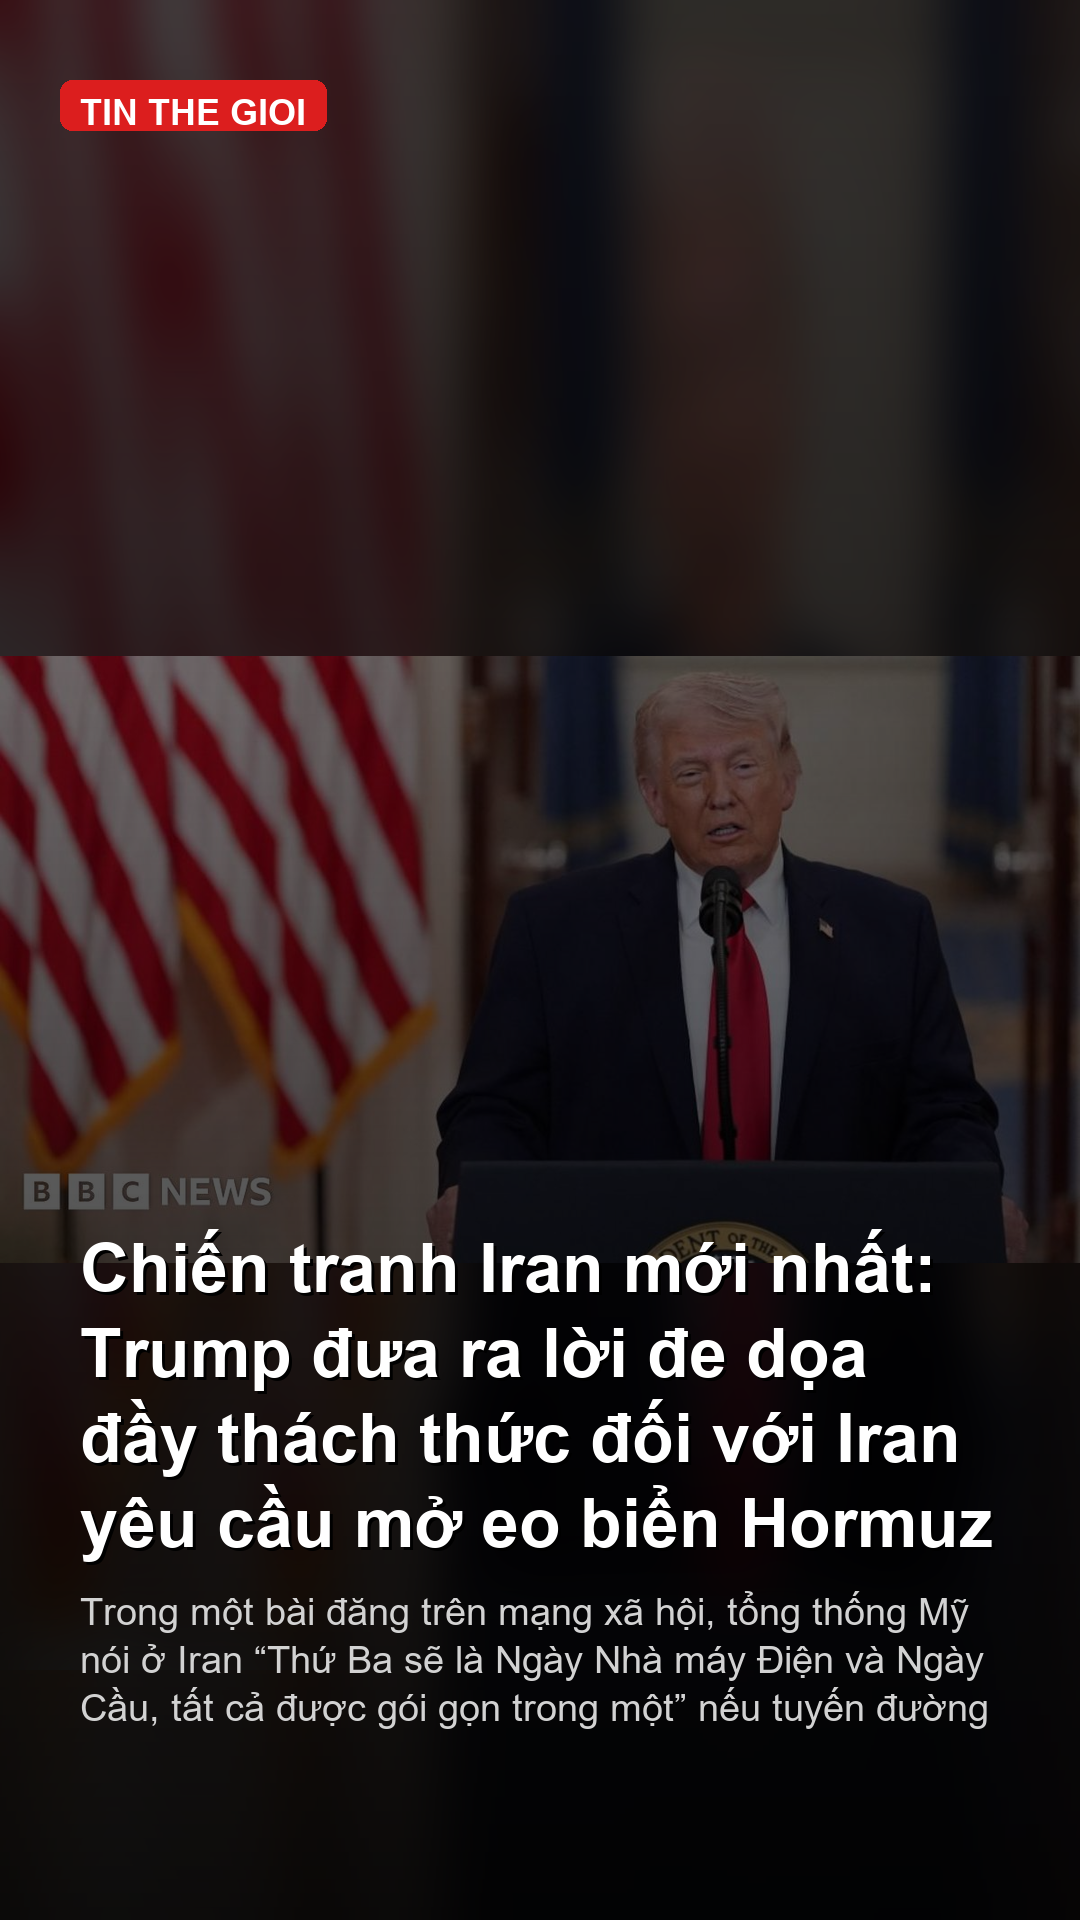
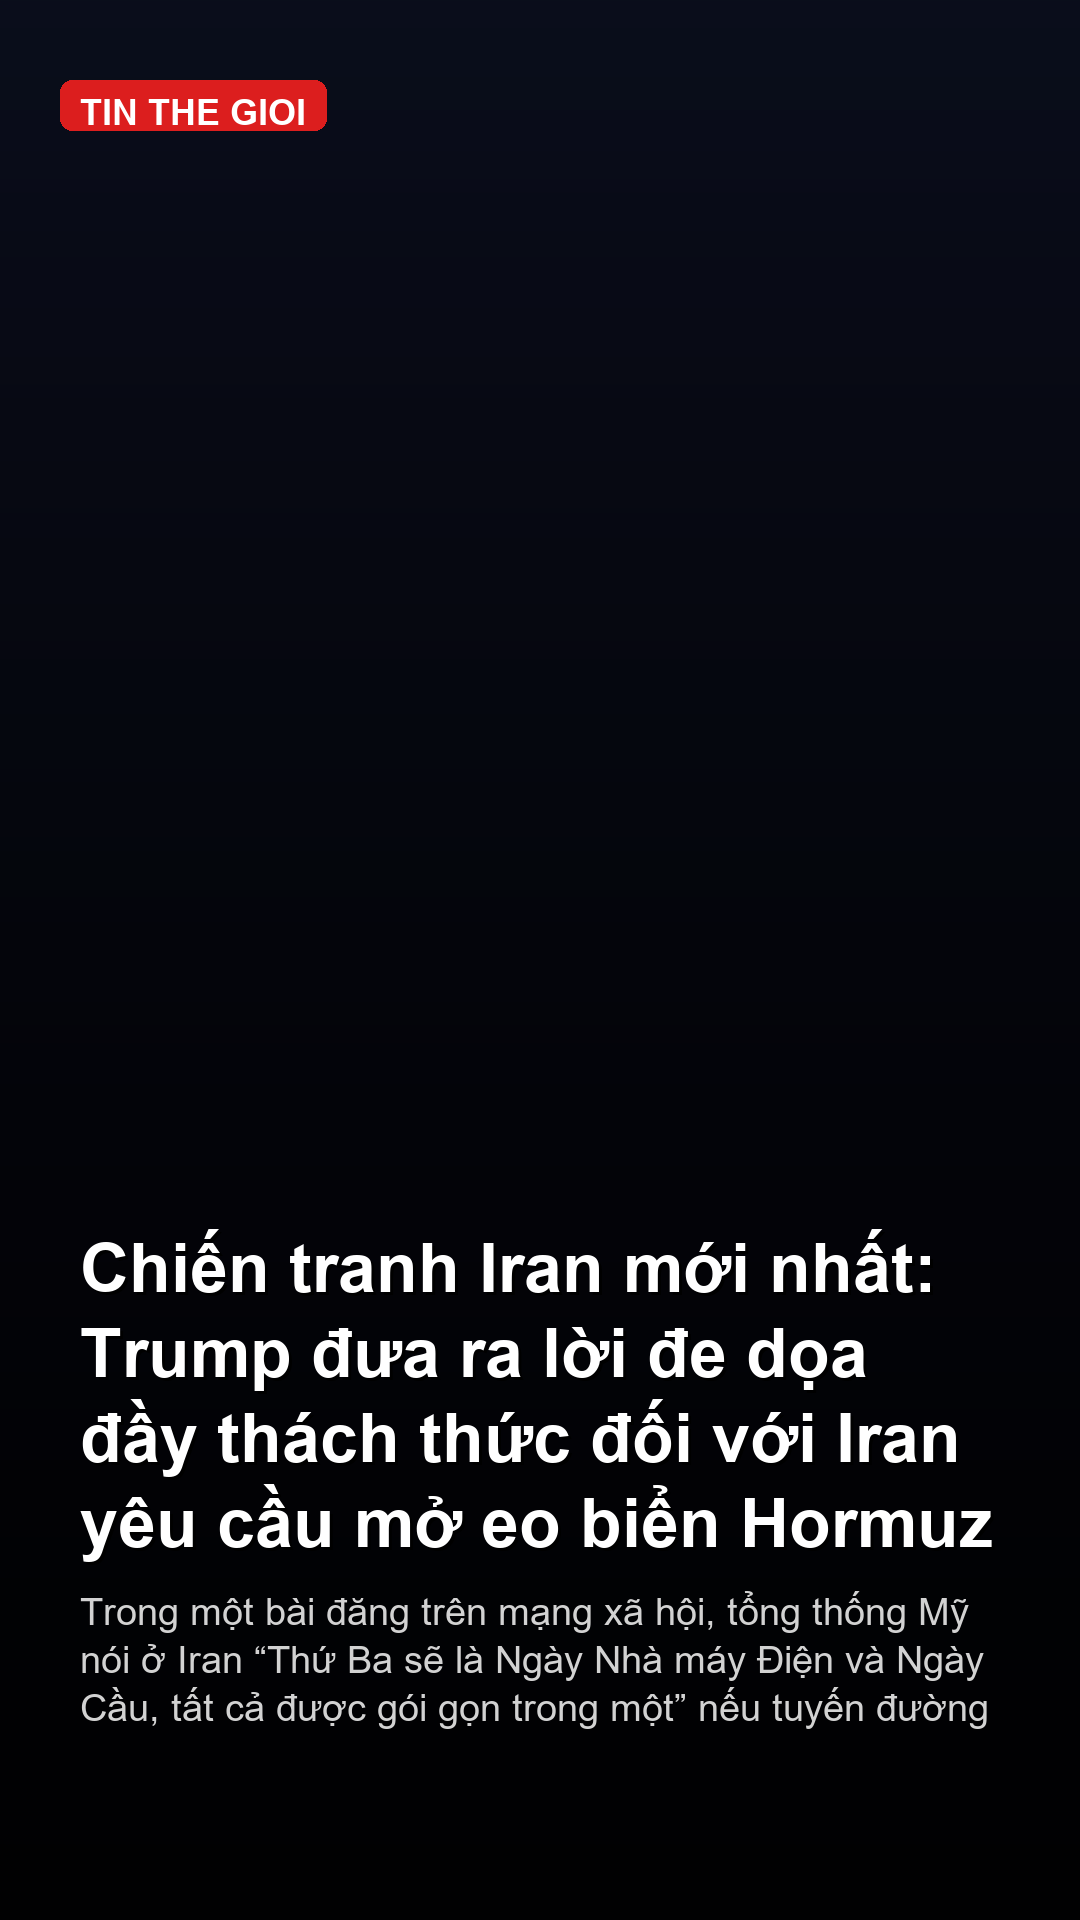
replace unsplash with picsum

diff --git a/generator/image_gen.py b/generator/image_gen.py
@@ -3,20 +3,20 @@
 Два стиля: "world" (TIN THE GIOI) и "vietnam" (TIN VIET NAM).
 
 Конвейер create_image:
-  1. download_image(url)          — скачать фото статьи
-  2. get_unsplash_image(title)    — если нет фото → Unsplash (3 попытки + fallback)
-  3. prepare_background(img)      — cover-resize до 1080×1920
-  4. add_overlay(img)             — градиентный overlay 80→220 alpha
-  5. draw_badge(draw, type)       — бейдж типа новости (верх-лево)
-  6. отрисовка заголовка          — авто-подбор шрифта 72→48px, макс. 4 строки
-  7. отрисовка описания           — 38px, макс. 3 строки
+  1. download_image(url)       — скачать оригинальное фото статьи
+  2. get_fallback_image(title) — если нет фото → Picsum Photos (seed по заголовку)
+  3. prepare_background(img)   — FIT-resize + размытый фон
+  4. add_overlay(img)          — градиентный overlay 80→220 alpha
+  5. draw_badge(draw, type)    — бейдж типа новости (верх-лево)
+  6. отрисовка заголовка       — авто-подбор шрифта 72→48px, макс. 4 строки
+  7. отрисовка описания        — 38px, макс. 3 строки
 """
 
+import hashlib
 import io
 import os
 import sys
 import random
-import urllib.parse
 
 import requests
 from PIL import Image, ImageDraw, ImageFilter, ImageFont
@@ -63,7 +63,7 @@ _STOP_WORDS = {
     "mot", "cac", "nhung", "sau", "khi", "da",
 }
 
-_UNSPLASH_TIMEOUT = 15
+_PICSUM_TIMEOUT = 15
 
 # Пары градиента для фона-заглушки
 _GRADIENT_PAIRS = [
@@ -105,14 +105,17 @@ def create_image(news_item: dict, output_path: str) -> bool:
         desc      = (news_item.get("description") or "").strip()
         news_type = (news_item.get("type")        or "world").strip()
 
-        # 1. Скачать фото статьи
+        # 1. Скачать оригинальное фото статьи
         img = download_image(image_url) if image_url else None
+        if img:
+            print(f"    [OK] Оригинальное фото загружено")
 
-        # 2. Fallback → Unsplash → градиент (внутри prepare_background)
+        # 2. Fallback → Picsum Photos (seed детерминирован по заголовку)
         if img is None:
-            img = get_unsplash_image(title, news_type)
+            print(f"    [>] Нет фото, берём Picsum...")
+            img = get_fallback_image(title, news_type)
 
-        # 3. Cover-resize 1080×1920
+        # 3. FIT-resize + размытый фон (или градиент если img=None)
         img = prepare_background(img, W, H)
 
         # 4. Градиентный overlay
@@ -168,61 +171,58 @@ def create_image(news_item: dict, output_path: str) -> bool:
 
 def download_image(url: str) -> Image.Image | None:
     """Скачивает изображение по URL. Возвращает None при любой ошибке."""
-    if not url:
+    if not url or len(url) < 10:
         return None
     try:
         resp = requests.get(
-            url, headers=HEADERS, timeout=REQUEST_TIMEOUT, stream=True
+            url,
+            headers={"User-Agent": "Mozilla/5.0"},
+            timeout=REQUEST_TIMEOUT,
         )
-        resp.raise_for_status()
-        content_type = resp.headers.get("Content-Type", "")
-        if "image" in content_type or _has_image_ext(url):
+        if resp.status_code == 200 and len(resp.content) > 5_000:
             img = Image.open(io.BytesIO(resp.content)).convert("RGB")
-            if img.width > 100 and img.height > 100:
+            if img.width > 200 and img.height > 200:
                 return img
     except Exception as e:
-        print(f"    [ImageGen] Не загружена ({url[:55]}…): {e}")
+        print(f"    [ImageGen] Не загружена ({url[:55]}): {e}")
     return None
 
 
-def get_unsplash_image(title: str, news_type: str = "world") -> Image.Image | None:
+def get_fallback_image(title: str, news_type: str = "world") -> Image.Image | None:
     """
-    Ищет фото на Unsplash по заголовку новости.
-    Пробует 3 запроса по убыванию специфичности:
-      1. Первые 3 слова заголовка
-      2. Первое слово заголовка
-      3. Общий запрос по типу новости (vietnam city / world news newspaper)
+    Загружает случайное фото с Picsum Photos (picsum.photos) — бесплатно, без ключа.
+
+    seed вычисляется из MD5 заголовка → одна новость всегда получает одно фото.
+    Пробует 3 URL по убыванию надёжности:
+      1. picsum.photos/seed/{seed}/1080/1920  — детерминированное фото по seed
+      2. picsum.photos/1080/1920?random={seed}  — случайное с тем же seed
+      3. picsum.photos/1080/1920?random={seed+1} — запасной вариант
 
     Возвращает None только если все 3 попытки провалились (→ градиентный фон).
     """
-    words = [w for w in title.split()[:5] if len(w) > 2]
+    seed = int(hashlib.md5(title.encode("utf-8", errors="replace")).hexdigest()[:8], 16) % 1000
 
-    query1 = urllib.parse.quote(" ".join(words[:3]) if words else "news")
-    query2 = urllib.parse.quote(words[0] if words else "news")
-    query3 = "vietnam+city" if news_type == "vietnam" else "world+news+newspaper"
+    urls = [
+        f"https://picsum.photos/seed/{seed}/1080/1920",
+        f"https://picsum.photos/1080/1920?random={seed}",
+        f"https://picsum.photos/1080/1920?random={seed + 1}",
+    ]
 
-    _ua = (
-        "Mozilla/5.0 (Windows NT 10.0; Win64; x64) "
-        "AppleWebKit/537.36 (KHTML, like Gecko) "
-        "Chrome/122.0.0.0 Safari/537.36"
-    )
-
-    for query in [query1, query2, query3]:
-        url = f"https://source.unsplash.com/1080x1920/?{query}"
+    for url in urls:
         try:
             resp = requests.get(
                 url,
-                headers={"User-Agent": _ua},
-                timeout=_UNSPLASH_TIMEOUT,
+                headers={"User-Agent": "Mozilla/5.0"},
+                timeout=_PICSUM_TIMEOUT,
                 allow_redirects=True,
             )
             if resp.status_code == 200 and len(resp.content) > 5_000:
                 img = Image.open(io.BytesIO(resp.content)).convert("RGB")
                 if img.width > 200 and img.height > 200:
-                    print(f"    [Unsplash] OK: {query[:50]}")
+                    print(f"    [Picsum] OK (seed={seed})")
                     return img
         except Exception as e:
-            print(f"    [Unsplash] Ошибка ({query[:40]}): {e}")
+            print(f"    [Picsum] Ошибка ({url[:55]}): {e}")
             continue
 
     return None
